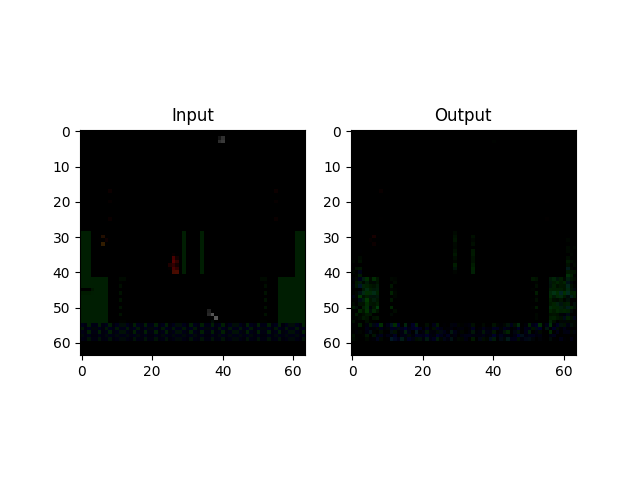
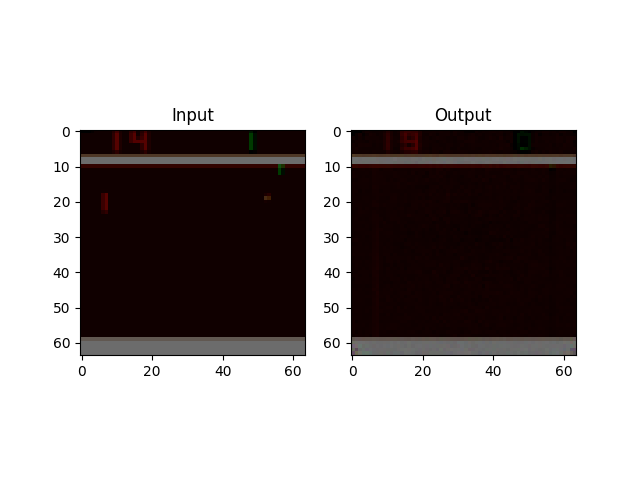
Upgraded modelwith decent results

diff --git a/pydreamer/models/NewCNN.py b/pydreamer/models/NewCNN.py
@@ -30,28 +30,13 @@ class NewCNN(nn.Module):
             activation(),
             nn.Conv2d(d*4, d*8, 4, stride),
             activation(),
-            nn.Flatten()
+            # nn.Conv2d(d*8, d*16, 2, stride),
+            # activation(),
         )
 
-        # self.neuralnetwork_small = nn.Sequential(
-        #     nn.Flatten(),
-        #     nn.Linear(4608, 1536),
-        #     activation(),
-        #     nn.Unflatten(1, (384, 2, 2)),
-        #     nn.ConvTranspose2d(d*8, d*4, 4, stride=2),
-        #     activation(),
-        # )
-
-        # self.neuralnetwork = nn.Sequential(
-        #     nn.Flatten(),
-        #     nn.Linear(20736, 10368),
-        #     activation(),
-        #     nn.Linear(10368, 6912),
-        #     activation(),
-        #     nn.Unflatten(1, (192, 6, 6))
-        # )
-
         self.decoder = nn.Sequential(
+            nn.ConvTranspose2d(d*16, d*8, 2, stride=2),
+            activation(),
             nn.ConvTranspose2d(d*8, d*4, 4, stride=2),
             activation(),
             nn.ConvTranspose2d(d*4, d*2, 4, stride=2),
@@ -62,18 +47,22 @@ class NewCNN(nn.Module):
             activation()
         )
 
-        self.decoder2 = nn.Sequential(
+        self.deep_decoder = nn.Sequential(
+            nn.Flatten(),
             # FC
             nn.Linear(1536, d * 32),
             nn.Unflatten(-1, (d * 32, 1, 1)),  # type: ignore
             # Deconv
-            nn.ConvTranspose2d(d * 32, d * 4, 5, stride),
+            nn.ConvTranspose2d(d * 32, d * 16, 5, stride),
             activation(),
-            nn.ConvTranspose2d(d * 4, d * 2, 5, stride),
+            nn.ConvTranspose2d(d * 16, d * 4, 5, stride),
             activation(),
-            nn.ConvTranspose2d(d * 2, d, 6, stride),
+            # nn.ConvTranspose2d(d * 4, d * 2, 5, stride),
+            # activation(),
+            nn.ConvTranspose2d(d * 4, d, 6, stride),
             activation(),
-            nn.ConvTranspose2d(d, 3, 6, stride))
+            nn.ConvTranspose2d(d, 3, 6, stride)
+        )
 
         self.x_0 = None
         self.x_1 = None
@@ -100,7 +89,7 @@ class NewCNN(nn.Module):
         # y = unflatten_batch(y, bd)
         # instuff, bd1 = flatten_batch(self.x_3, 3)
         y = self.encoder(combined_history)
-        y = self.decoder2(y)
+        y = self.deep_decoder(y)
         y = unflatten_batch(y, bd)
         # x_1_out, bd1 = flatten_batch(self.x_1, 3)
         # x_2_out, bd2 = flatten_batch(self.x_2, 3)
@@ -113,19 +102,24 @@ class NewCNN(nn.Module):
         # y = self.neuralnetwork(y)
         # # print(f"size y after nn: {y.size()}")
         # y = self.decoder(y)
-        print(f"size history: {combined_history.size()}")
-        print(f"size x input: {x.size()}")
-        print(f"size y after decoder: {y.size()}")
         # y = unflatten_batch(y, bd1)
+
+        # print(f"size history: {combined_history.size()}")
+        # print(f"size x input: {x.size()}")
+        # print(f"size y after decoder: {y.size()}")
+        # print(f"size y numpy: {np.shape(y.detach().numpy())}")
+        # print(f"size y numpy 1 mean: {np.shape(np.mean(y.detach().numpy(), 0))}")
 
         self.iter += 1
         if self.iter == self.picture_every:
             print("Creating pictures")
-            fig, (ax1, ax2) = plt.subplots(1,2)
+            fig, (ax1, ax2, ax3) = plt.subplots(1,3)
             ax1.imshow(np.clip(x.detach().numpy()[0][0].transpose((1,2,0)), 0, 1), interpolation='nearest')
-            ax1.set_title("History input")
+            ax1.set_title("Input")
             ax2.imshow(np.clip(y.detach().numpy()[0][0].transpose((1,2,0)), 0, 1), interpolation='nearest')
-            ax2.set_title("CNN_out")
+            ax2.set_title("CNN_out 1")
+            ax3.imshow(np.clip(np.mean(np.mean(y.detach().numpy(), 0), 0).transpose((1,2,0)), 0, 1), interpolation='nearest')
+            ax3.set_title("CNN_out mean")
             plt.savefig('pictures/NewCNN_out.png')
 
             fig, (ax1, ax2, ax3) = plt.subplots(1, 3)
